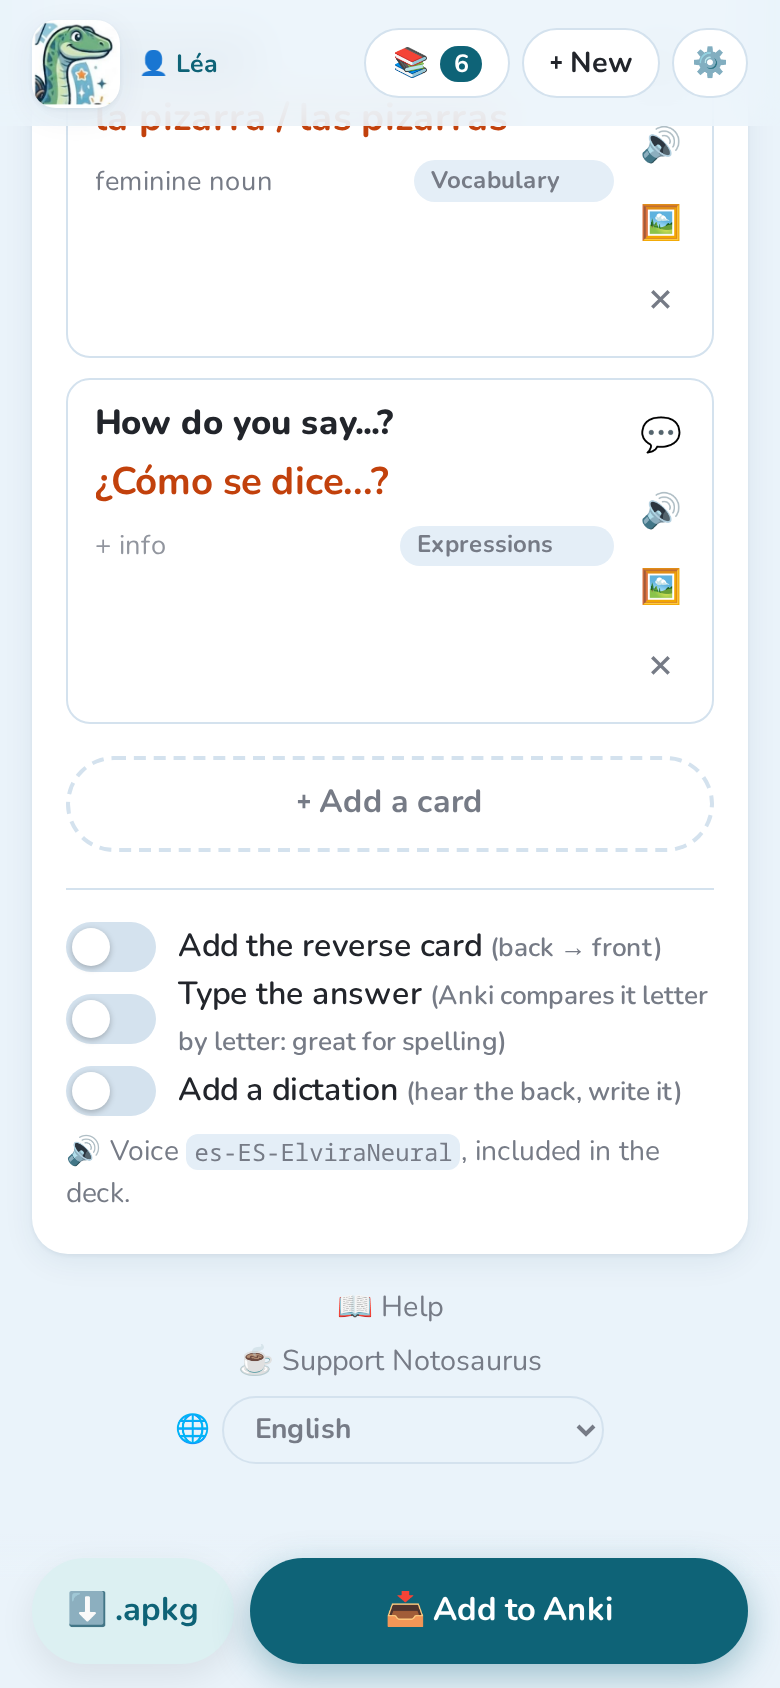
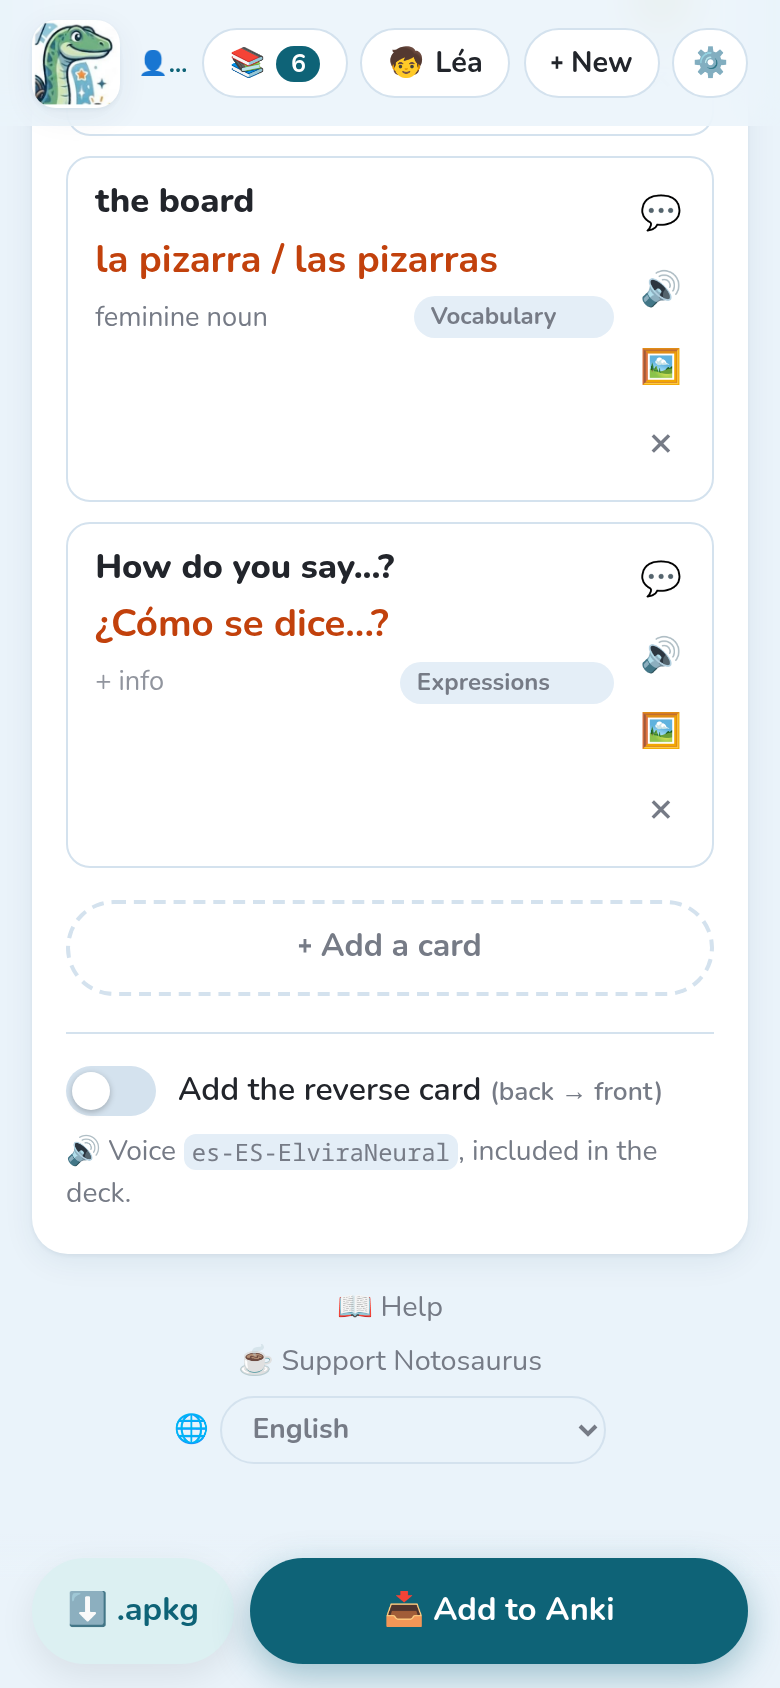
✨ Review: only the reverse card; typing and dictation come with the instructions (#226)
- The review keeps one switch: **Add the reverse card** (a per-lesson
choice, the cards' text unchanged).
- **Type the answer** and **Add a dictation** / **Dictation only** are
gone from the review: they go with what the AI writes, so they come from
the instructions (already their options). Lessons keep the options they
were made with.
- Docs (en, fr) and the review-options screenshots updated.

Page tests: 49 passed locally.

🤖 Generated with [Claude Code](https://claude.com/claude-code)

diff --git a/static/index.html b/static/index.html
@@ -519,22 +519,6 @@
           <span class="track"><span class="knob"></span></span>
           <span><span x-text="$t('app.review.reverse')"></span> <small x-text="$t('app.review.reverseHint')"></small></span>
         </label>
-        <label class="switch" :class="{ disabled: readOnly() }">
-          <input type="checkbox" x-model="typing" :disabled="readOnly()">
-          <span class="track"><span class="knob"></span></span>
-          <span><span x-text="$t('app.review.typing')"></span> <small x-text="$t('app.review.typingHint')"></small></span>
-        </label>
-        <label class="switch" :class="{ disabled: readOnly() || !voice }">
-          <input type="checkbox" x-model="dictation" :disabled="readOnly() || !voice">
-          <span class="track"><span class="knob"></span></span>
-          <span><span x-text="$t('app.review.dictation')"></span>
-            <small x-text="voice ? $t('app.review.dictationHint') : $t('app.review.dictationNoVoice')"></small></span>
-        </label>
-        <label class="switch" :class="{ disabled: readOnly() }" x-show="dictation && voice">
-          <input type="checkbox" x-model="dictationOnly" :disabled="readOnly()">
-          <span class="track"><span class="knob"></span></span>
-          <span><span x-text="$t('app.review.dictationOnly')"></span> <small x-text="$t('app.review.dictationOnlyHint')"></small></span>
-        </label>
         <p class="hint" x-show="voice">
           <span x-show="hasAudio()" x-html="$th('app.review.voiceIncluded', { voice })"></span>
           <span x-show="!hasAudio()" x-html="$th('app.review.voiceDevice', { voice })"></span>

diff --git a/docs/src/content/docs/instructions.md b/docs/src/content/docs/instructions.md
@@ -54,7 +54,8 @@ every week. **Duplicate** starts from a Notosaurus prompt.
   filled in from the lesson: `Spanish::Lesson {n}` becomes `Spanish::Lesson 5`.
 - **Voice for the back**: no sound, **Automatic** (the AI recognises the language of the backs
   and Notosaurus picks a voice of that language), or a voice you choose and can listen to.
-- **Card options**: type the answer, add a dictation (see [Reviewing the cards](../review/)).
+- **Card options**: type the answer (Anki compares letter by letter), add a dictation (hear
+  the back, write it). They go with the lessons made with these instructions.
 
 **✏ Free** writes instructions for this time only: they stay with the lesson but aren't
 added to your list. **Save as new instructions** keeps them if they worked well.

diff --git a/docs/src/content/docs/fr/instructions.md b/docs/src/content/docs/fr/instructions.md
@@ -57,8 +57,8 @@ enfant apprend chaque semaine. **Dupliquer** part d'une consigne de Notosaurus.
 - **Voix du verso** : pas de son, **Automatique** (l'IA reconnaît la langue des versos et
   Notosaurus prend une voix de cette langue), ou une voix que tu choisis et que tu peux
   écouter.
-- **Options des cartes** : taper la réponse, ajouter une dictée (voir
-  [Relire les cartes](../review/)).
+- **Options des cartes** : taper la réponse (Anki compare lettre par lettre), ajouter une
+  dictée (entendre le verso, l'écrire). Elles vont avec les leçons faites avec cette consigne.
 
 **✏ Libre** écrit une consigne pour cette fois seulement : elle reste avec la leçon, mais
 n'est pas ajoutée à ta liste. **Enregistrer comme nouvelle consigne** la garde si elle a

diff --git a/docs/src/content/docs/fr/card-types.md b/docs/src/content/docs/fr/card-types.md
@@ -13,9 +13,9 @@ La carte classique : un **recto** (la question, un mot dans ta langue) et un **v
 réponse, le mot dans la langue étudiée), avec une **info** facultative affichée sous la
 réponse. C'est ce que font les consignes de vocabulaire, de phrases et de questions.
 
-Options, en bas de la leçon : la **carte inverse** (verso → recto), **taper la réponse**
-(Anki compare lettre par lettre) et la **dictée** (entendre le verso, l'écrire). Voir
-[Relire les cartes](../review/#les-options-des-cartes).
+En bas de la leçon, la **carte inverse** (verso → recto). La consigne ajoute **taper la
+réponse** (Anki compare lettre par lettre) et la **dictée** (entendre le verso, l'écrire).
+Voir [Les consignes](../instructions/).
 
 ## Texte à trous
 

diff --git a/docs/src/content/docs/card-types.md b/docs/src/content/docs/card-types.md
@@ -12,9 +12,9 @@ The classic card: a **front** (the question, a word in your language) and a **ba
 answer, the word in the language being learnt), with an optional **info** shown under the
 answer. It's what the vocabulary, sentences and questions instructions make.
 
-Options, at the bottom of the lesson: the **reverse card** (back → front), **type the answer**
-(Anki compares letter by letter) and **dictation** (hear the back, write it). See
-[Reviewing the cards](../review/#card-options).
+At the bottom of the lesson, the **reverse card** (back → front). The instructions add
+**type the answer** (Anki compares letter by letter) and **dictation** (hear the back, write
+it). See [Instructions](../instructions/).
 
 ## Fill in the blanks
 

diff --git a/docs/src/content/docs/fr/review.md b/docs/src/content/docs/fr/review.md
@@ -70,10 +70,9 @@ En bas de la leçon :
 ![Les options des cartes](../../../assets/screenshots/fr/review-options.png)
 
 - **Ajouter la carte inverse** : Anki demande aussi verso → recto.
-- **Taper la réponse** : Anki compare ce qui est tapé lettre par lettre. Idéal pour
-  l'orthographe.
-- **Ajouter une dictée** : une carte où l'on entend le verso, puis on l'écrit. Il faut une
-  voix.
+
+La réponse tapée et la dictée viennent de la [consigne](../instructions/) : elles vont avec ce
+que l'IA écrit. Pour les changer, refais la leçon avec une autre consigne.
 
 La ligne en dessous indique la voix qui lit les versos. Elle est incluse dans le paquet :
 elle fonctionne partout, même hors connexion.

diff --git a/docs/src/content/docs/review.md b/docs/src/content/docs/review.md
@@ -66,8 +66,9 @@ At the bottom of the lesson:
 ![Card options](../../assets/screenshots/en/review-options.png)
 
 - **Add the reverse card**: Anki also asks back → front.
-- **Type the answer**: Anki compares what is typed letter by letter. Great for spelling.
-- **Add a dictation**: a card where the back is heard, then written. It needs a voice.
+
+Typing the answer and the dictation come with the [instructions](../instructions/): they go
+with what the AI writes. To change them, make the lesson again with other instructions.
 
 The line below says which voice reads the backs. It is included in the deck, so it plays
 everywhere, even offline.

diff --git a/docs/src/content/docs/fr/send-to-anki.md b/docs/src/content/docs/fr/send-to-anki.md
@@ -30,7 +30,7 @@ leçon restent dans Anki : après l'envoi, Notosaurus les liste et propose de le
 (avec leur historique de révision), jamais sans ton accord. Supprimer une leçon entière dans
 Notosaurus propose de supprimer aussi ses cartes dans Anki, avec leur historique de révision.
 
-Changer une option des cartes (carte inverse, taper la réponse…) sur une leçon déjà envoyée
+Changer une option des cartes (la carte inverse) sur une leçon déjà envoyée
 fait passer ses cartes au type de note correspondant, historique gardé.
 
 Dans Anki, les notes de chaque leçon portent l'étiquette `notosaurus::<leçon>` : pratique pour

diff --git a/docs/src/content/docs/send-to-anki.md b/docs/src/content/docs/send-to-anki.md
@@ -29,7 +29,7 @@ added since the last send are added; cards deleted from the lesson stay in Anki:
 delete them (with their review history), never without asking. Deleting a whole lesson in Notosaurus offers to delete its cards in Anki
 too, with their review history.
 
-Changing a card option (reverse card, type the answer…) on a lesson already sent moves its
+Changing a card option (the reverse card) on a lesson already sent moves its
 cards to the matching note type, history kept.
 
 In Anki, each lesson's notes carry a tag `notosaurus::<lesson>`: handy to find them in the

diff --git a/docs/src/content/docs/voices.md b/docs/src/content/docs/voices.md
@@ -36,9 +36,8 @@ before sending the cards.
 
 ## Dictation
 
-With a voice, the **Add a dictation** option (at the bottom of the lesson, or in the
-instructions) adds a card where the back is heard, then written. See
-[Reviewing the cards](../review/#card-options).
+With a voice, the **Add a dictation** option of the instructions adds a card where the back is heard, then written. See
+[Instructions](../instructions/).
 
 ## Cards without sound
 

diff --git a/docs/src/content/docs/fr/voices.md b/docs/src/content/docs/fr/voices.md
@@ -37,9 +37,9 @@ ensuite.
 
 ## Dictée
 
-Avec une voix, l'option **Ajouter une dictée** (en bas de la leçon, ou dans la consigne) ajoute
+Avec une voix, l'option **Ajouter une dictée** de la consigne ajoute
 une carte où l'on entend le verso, puis on l'écrit. Voir
-[Relire les cartes](../review/#les-options-des-cartes).
+[Les consignes](../instructions/).
 
 ## Des cartes sans son
 
